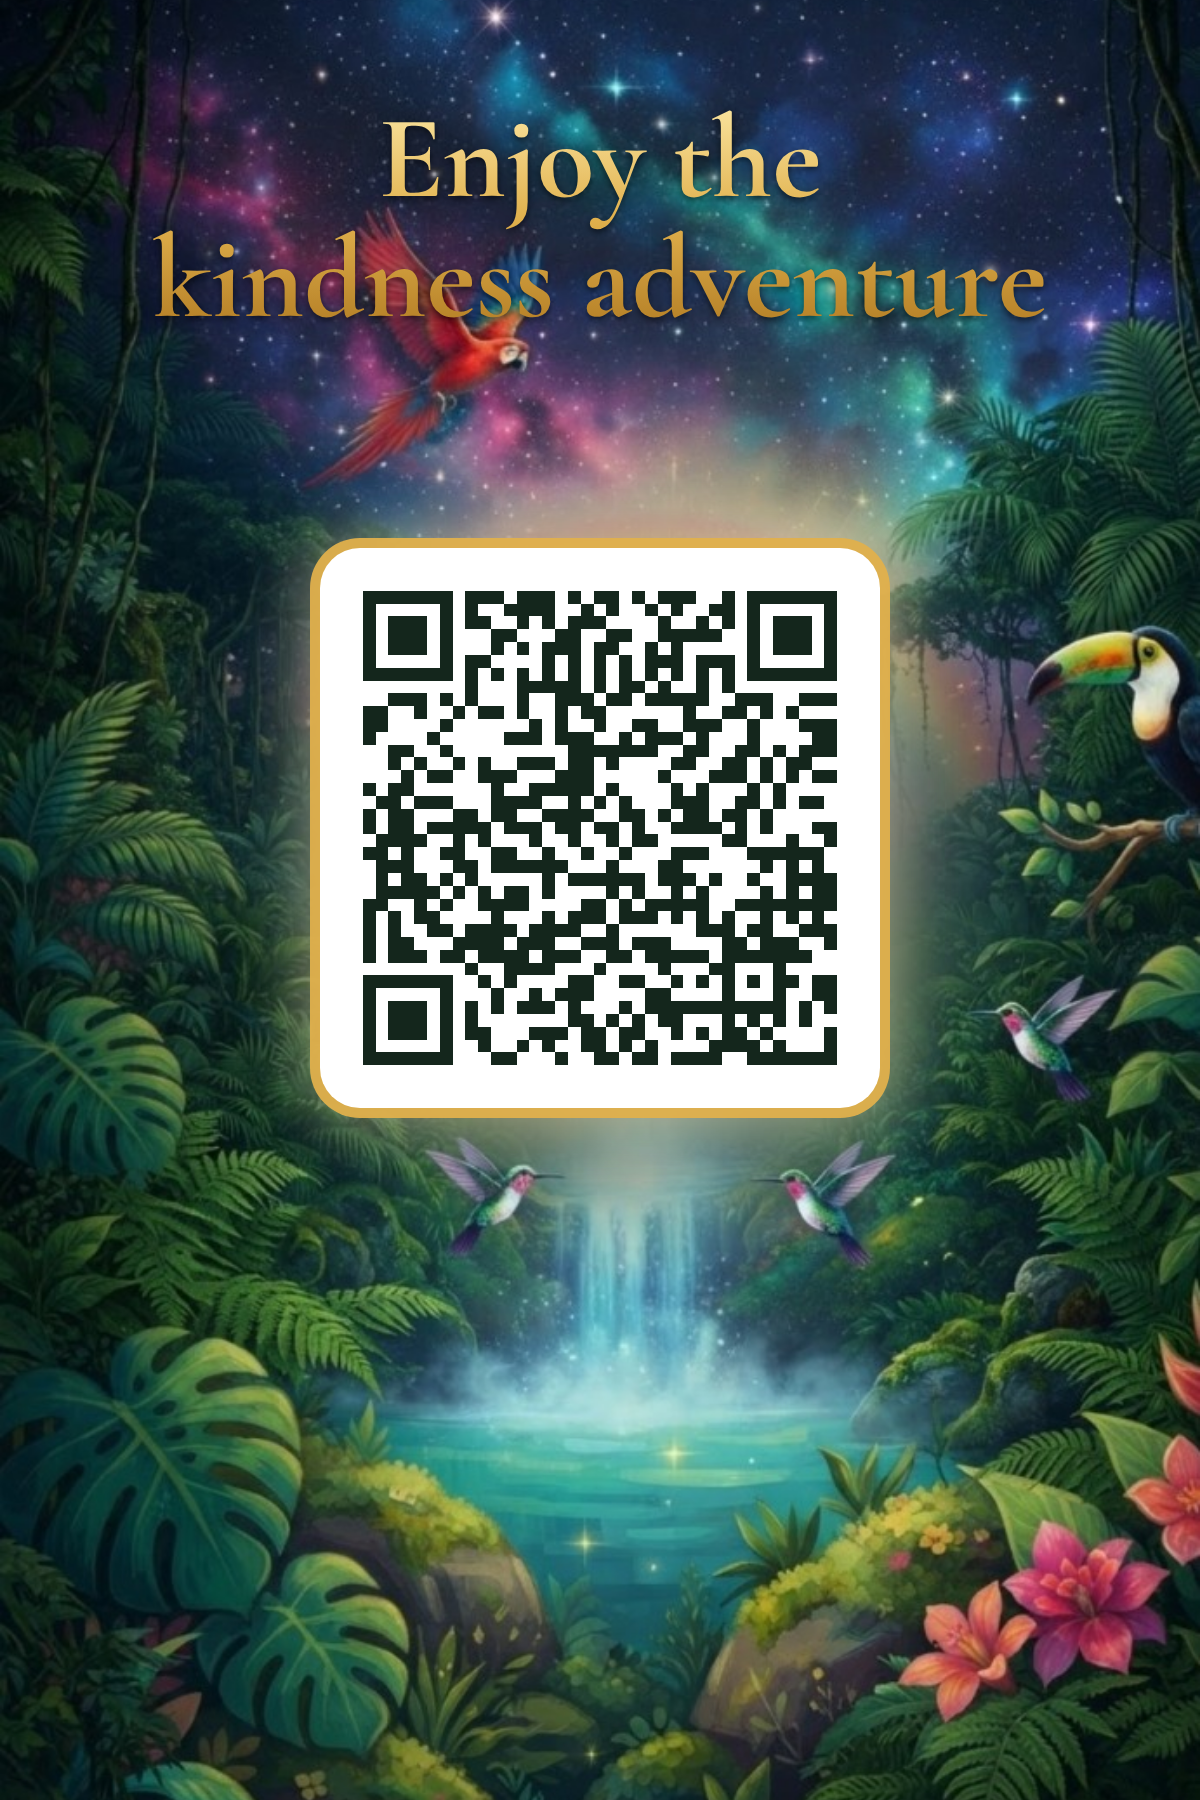
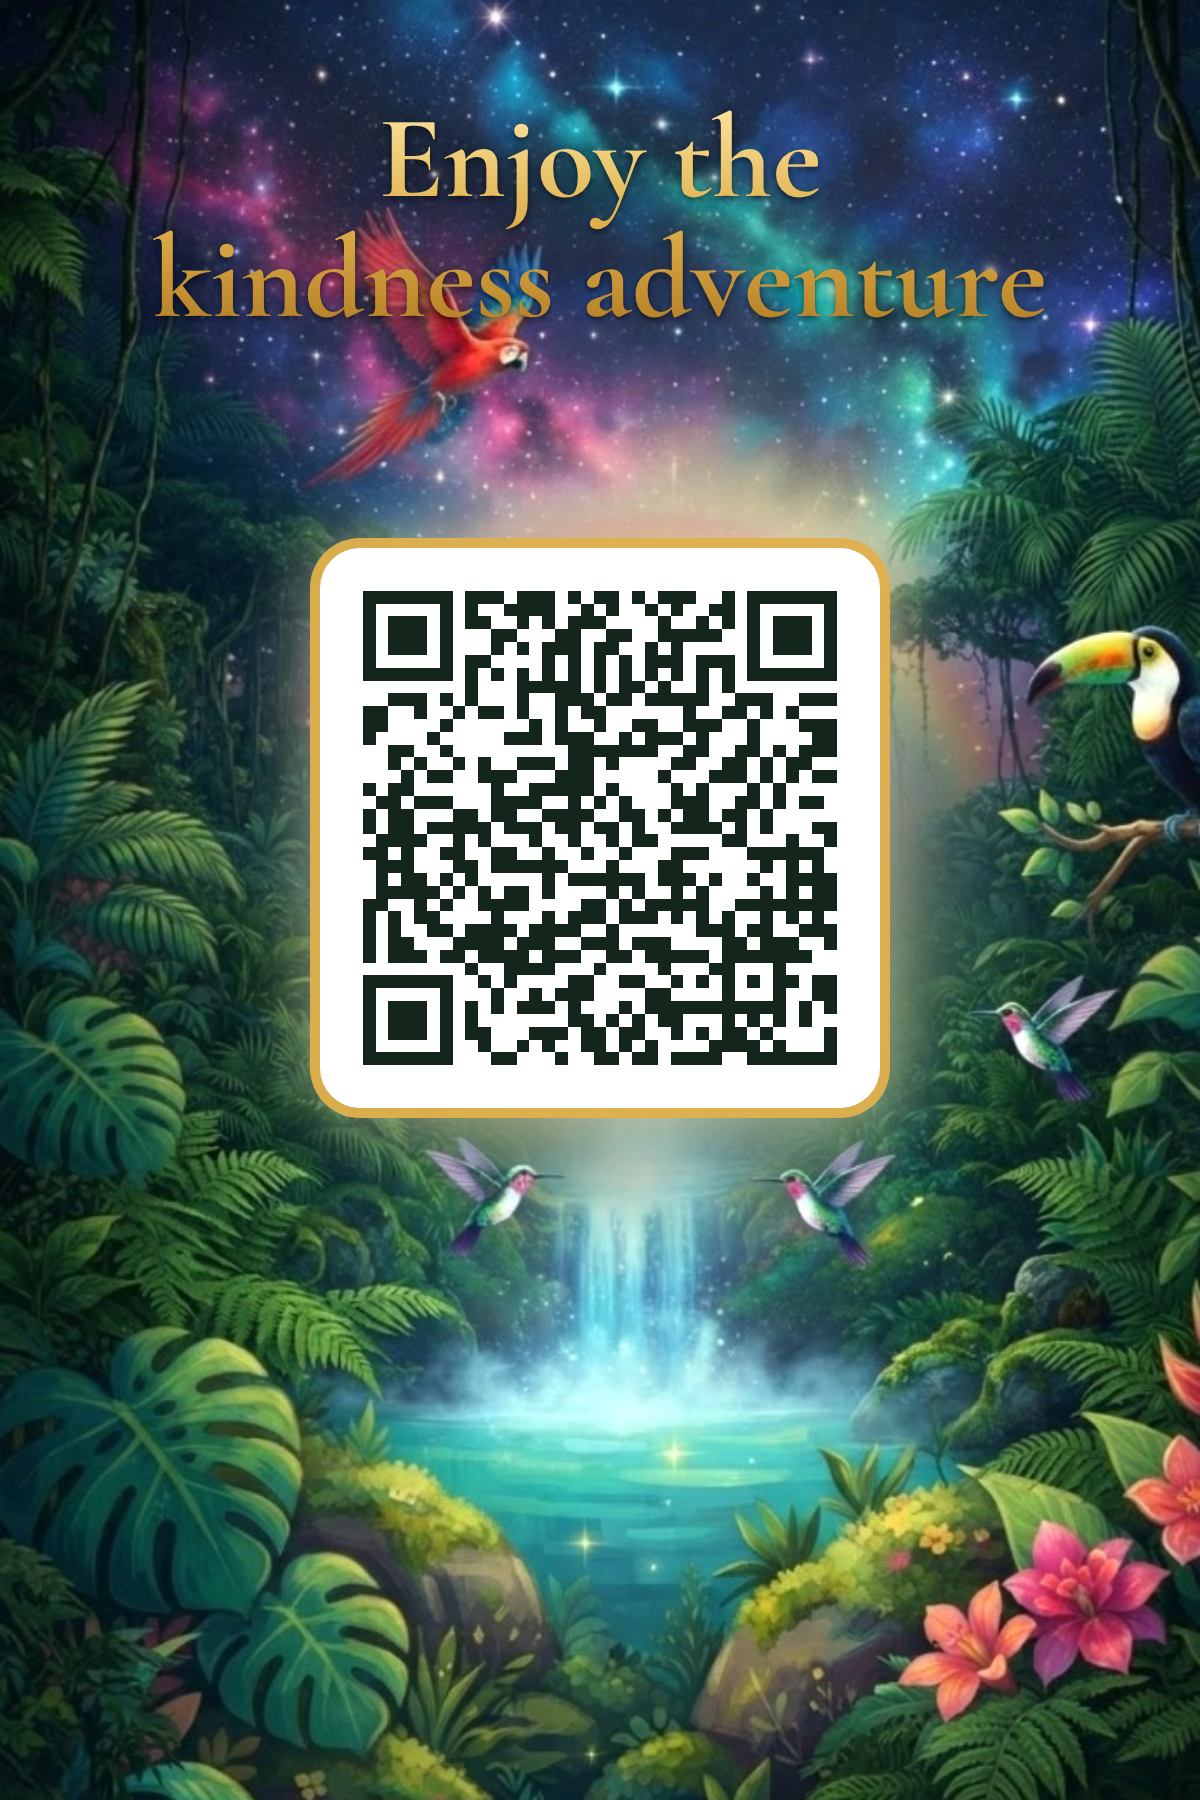
One look: card's night jungle and gold on every page; only the questions; brighter card
Claude-Session: https://claude.ai/code/session_01MLWbqWu26Pfe5ERyxwgiqc

diff --git a/js/app.js b/js/app.js
@@ -14,23 +14,20 @@ const markShared = f => localStorage.setItem(SHARED, JSON.stringify({ ...shared(
 const siteUrl = () => CONFIG.SITE_URL || location.href.split('#')[0];
 const CONSENT = 'I understand my answers will be public (without my name) and may appear in the book <em>Kindness</em> by Dane E. Rose.';
 
-if (isDemo()) $('#demo-banner').hidden = false;
-async function refreshTally() { try { $('#tally').textContent = await backend.tally(); } catch {} }
+async function refreshTally() {}
 
-function view(html, title) { main.innerHTML = html; document.title = (title ? title + ' · ' : '') + 'The Kindness Project'; main.focus(); window.scrollTo(0, 0); }
+function view(html, title) { main.innerHTML = html; document.title = 'Kindness'; main.focus(); window.scrollTo(0, 0); }
 
 // ---------- answer widget (type, speak, or speak-to-text) ----------
 function answerBox(id, label) {
   const rec = canRecord();
-  return `<label for="${id}">${label}</label>
-  <textarea id="${id}" name="${id}" maxlength="4000" placeholder="Type here, or tap Speak and talk."></textarea>
-  ${rec ? `<div class="voice"><button type="button" class="btn alt rec" data-rec="${id}" aria-pressed="false">🎙 Speak instead of typing</button>
-  <span class="hint" data-status="${id}" aria-live="polite">${canTranscribe() ? 'Your words will appear as text as you speak.' : 'Your voice will be recorded. You can also type.'}</span></div>
+  return `<textarea id="${id}" name="${id}" maxlength="4000" aria-label="${label}" placeholder="Type here, or tap Speak."></textarea>
+  ${rec ? `<div class="voice"><button type="button" class="btn alt rec" data-rec="${id}" aria-pressed="false">🎙 Speak</button>
+  <span class="hint" data-status="${id}" aria-live="polite"></span></div>
   <div data-audio="${id}" hidden><audio controls></audio>
-  <fieldset class="vchoice"><legend>How should we share it?</legend>
-  <label><input type="radio" name="keep-${id}" value="voice" data-keep="${id}" checked> As a voice message (with the words written out too)</label>
-  <label><input type="radio" name="keep-${id}" value="text"> As text only (your voice is not kept)</label></fieldset></div>`
-  : `<p class="hint">Voice recording isn't available in this browser, so please type.</p>`}`;
+  <fieldset class="vchoice"><legend>Keep it as</legend>
+  <label><input type="radio" name="keep-${id}" value="voice" data-keep="${id}" checked> A voice message</label>
+  <label><input type="radio" name="keep-${id}" value="text"> Text</label></fieldset></div>` : ''}`;
 }
 const answers = {};
 function wireAnswer(id) {
@@ -92,14 +89,7 @@ function showNote(host, x, y) {
   host.appendChild(n); setTimeout(() => n.remove(), 3300);
 }
 function home() {
-  view(`<section class="jungle" id="jungle"><div class="scene" id="scene"></div>
-  <div class="copy"><h1>Someone made your day.<br>Pass it on.</h1>
-  <p>Three small questions about kindness. Anonymous, two minutes, and good for you.</p>
-  <a class="journey-btn" href="#journey">Take the kindness journey</a>
-  <p class="hint-tap">Psst. Tap a bird.</p></div></section>
-  <div class="leaf-links"><a href="#stories">${STORIES.length} true stories</a><a href="#research">Kindness experiments</a><a href="#feed">What others shared</a></div>`);
-  const j = $('#jungle'); sparkleScene($('#scene'));
-  j.addEventListener('click', e => { if (!e.target.closest('a,button')) showNote(j, e.clientX, e.clientY); });
+  view(`<section class="home"><a class="journey-btn" href="#journey">Take the kindness journey</a></section>`);
 }
 
 const LEAF = `<svg class="leafy" viewBox="0 0 64 64" aria-hidden="true"><path d="M10 54C10 26 30 10 56 8c-2 26-18 46-46 46z" fill="#2f9e5f"/><path d="M12 52C24 40 36 28 50 14" stroke="#e8f3e2" stroke-width="2.5" fill="none" stroke-linecap="round"/><circle cx="50" cy="48" r="5" fill="#ff6f61"/><circle cx="40" cy="56" r="3.5" fill="#ffc94a"/></svg>`;
@@ -111,83 +101,53 @@ const IDEAS = [
   { title: 'Send an appreciation', sub: 'A text or email to someone you really appreciate', href: '#appreciate',
     art: '<img src="img/tile-thanks.jpg" alt="Birds carrying thank-you notes from a phone" loading="lazy">' },
 ];
-const journeyStash = {};
 function journey(step = 1) {
-  if (step === 1) {
-    view(`<div class="journey"><p class="step">The kindness journey · 1 of 3</p>${LEAF}<h1 class="q">What is the kindest thing anyone has done for you?</h1>
-    <form id="f" novalidate>${answerBox('j1', 'Your answer')}
-    <label class="consent"><input type="checkbox" id="consent"> <span>${CONSENT}</span></label>
-    <p class="hint">Please leave out names, phone numbers and emails.</p><p class="err" id="msg" role="alert"></p>
-    <div class="row"><button class="btn" type="submit" id="submit">Submit</button></div></form></div>`, 'The kindness journey');
-    wireAnswer('j1');
+  if (step < 3) {
+    const id = 'j' + step, flow = step === 1 ? 'received' : 'given';
+    const q = step === 1 ? 'What is the kindest thing anyone has done for you?' : 'What is one thing you have done for yourself or others just to be kind?';
+    view(`<div class="journey"><h1 class="q">${q}</h1>
+    <form id="f" novalidate>${answerBox(id, q)}<p class="err" id="msg" role="alert"></p>
+    <div class="row"><button class="btn" type="submit" id="submit">Submit</button></div></form></div>`);
+    wireAnswer(id);
     $('#f').onsubmit = async e => {
       e.preventDefault();
-      if (!$('#j1').value.trim() && !answers.j1?.blob) { $('#msg').textContent = 'Please type or record an answer first.'; return; }
-      if (!$('#consent').checked) { $('#msg').textContent = 'Please tick the box to agree before sharing.'; return; }
+      if (!$('#' + id).value.trim() && !answers[id]?.blob) { $('#msg').textContent = 'Please type or speak an answer first.'; return; }
       $('#submit').disabled = true;
-      try { const it = await collect('j1', 'received', true); await backend.submit([it]); journeyStash.consent = true; markShared('flow1'); refreshTally(); location.hash = '#journey2'; }
+      try { const it = await collect(id, flow, true); await backend.submit([it]); markShared('flow1'); location.hash = step === 1 ? '#journey2' : '#journey3'; }
       catch { $('#submit').disabled = false; $('#msg').textContent = 'Sorry, that didn\'t send. Please try again.'; }
     };
     return;
   }
-  if (step === 2) {
-    view(`<div class="journey"><p class="step">The kindness journey · 2 of 3</p>${LEAF}<h1 class="q">What is one thing you have done for yourself or others just to be kind?</h1>
-    <form id="f" novalidate>${answerBox('j2', 'Your answer')}
-    ${journeyStash.consent ? '' : `<label class="consent"><input type="checkbox" id="consent"> <span>${CONSENT}</span></label>`}
-    <p class="err" id="msg" role="alert"></p>
-    <div class="row"><button class="btn" type="submit" id="submit">Submit</button></div></form></div>`, 'The kindness journey');
-    wireAnswer('j2');
-    $('#f').onsubmit = async e => {
-      e.preventDefault();
-      if (!$('#j2').value.trim() && !answers.j2?.blob) { $('#msg').textContent = 'Please type or record an answer first.'; return; }
-      if (!journeyStash.consent && !$('#consent')?.checked) { $('#msg').textContent = 'Please tick the box to agree before sharing.'; return; }
-      $('#submit').disabled = true;
-      try { const it = await collect('j2', 'given', true); await backend.submit([it]); markShared('flow1'); refreshTally(); location.hash = '#journey3'; }
-      catch { $('#submit').disabled = false; $('#msg').textContent = 'Sorry, that didn\'t send. Please try again.'; }
-    };
-    return;
-  }
-  view(`<div class="journey thanks"><p class="step">The kindness journey · 3 of 3</p>
-  <h1>Thank you so much for participating in the Kindness Project.</h1>
+  view(`<div class="journey"><h1>Thank you so much for participating in the Kindness Project.</h1>
   <h2 class="q">Is there anything big or small that has the energy of kindness around it that you could do right now?</h2>
   <p class="lead">Do you need ideas?</p>
-  <div class="ideas">${IDEAS.map(i => `<a class="idea" href="${i.href}" ${i.href.startsWith('http') ? 'target="_blank" rel="noopener"' : ''}>${i.art}<span>${i.title}<small>${i.sub}</small></span></a>`).join('')}</div>
-  <form id="f" novalidate>${answerBox('j3', 'What you could do right now')}
-  ${journeyStash.consent ? '' : `<label class="consent"><input type="checkbox" id="consent"> <span>${CONSENT}</span></label>`}
-  <p class="err" id="msg" role="alert"></p>
-  <div class="row"><button class="btn" type="submit" id="submit">Submit</button></div></form></div>`, 'The kindness journey');
+  <div class="ideas">${IDEAS.map(i => `<a class="idea" href="${i.href}" ${i.href.startsWith('http') ? 'target="_blank" rel="noopener"' : ''}>${i.art}<span>${i.title}</span></a>`).join('')}</div>
+  <form id="f" novalidate>${answerBox('j3', 'What you could do right now')}<p class="err" id="msg" role="alert"></p>
+  <div class="row"><button class="btn" type="submit" id="submit">Submit</button></div></form></div>`);
   wireAnswer('j3');
   $('#f').onsubmit = async e => {
     e.preventDefault();
     const has = $('#j3').value.trim() || answers.j3?.blob;
-    if (has && !journeyStash.consent && !$('#consent')?.checked) { $('#msg').textContent = 'Please tick the box to agree before sharing.'; return; }
     $('#submit').disabled = true;
-    try { if (has) { const it = await collect('j3', 'inspired', true); await backend.submit([it]); markShared('flow1'); refreshTally(); } location.hash = '#gift'; }
+    try { if (has) { const it = await collect('j3', 'inspired', true); await backend.submit([it]); } location.hash = '#gift'; }
     catch { $('#submit').disabled = false; $('#msg').textContent = 'Sorry, that didn\'t send. Please try again.'; }
   };
 }
 
 function gift() {
-  view(`<div class="journey thanks"><section class="gift">
-  <h2>A book on kindness</h2>
-  <p class="gift-lead">Please receive. Please enjoy.</p>
-  <img class="book3d" src="img/book-3d.jpg" alt="The book Kindness by Dane E. Rose">
+  view(`<div class="journey gift"><h1>A book on kindness</h1>
+  <img class="book3d" src="img/book-3d.png" alt="The book Kindness by Dane E. Rose">
   <p>This book and audiobook are not available for sale anywhere. They are a gift.</p>
-  <p>In it you can enjoy beautiful stories of kindness from around the world and some of the best science on kindness.</p>
   <p>If you would like to receive the book, please enter your email address below. Your email address will be used only for the Kindness Project and never shared with anyone else. Your book and audiobook will arrive within 30 days.</p>
-  <form id="bf" novalidate><label for="bem">Your email address</label><input type="email" id="bem" autocomplete="email" inputmode="email" placeholder="you@example.com">
+  <form id="bf" novalidate><input type="email" id="bem" autocomplete="email" inputmode="email" aria-label="Your email address" placeholder="Your email address">
   <p class="err" id="bmsg" role="alert"></p>
-  <div class="row"><button class="btn" type="submit" id="bsub">Send me the book</button></div></form>
-  <div class="stack"><a class="btn alt" href="#stories">Read the stories online</a><a class="btn alt" href="#share">Share the project with others</a></div>
-  <p class="blessing">Every kind act blesses our entire planet and all of humanity.</p>
-  </section></div>`, 'A book on kindness');
-  setTimeout(confetti, 60);
+  <div class="row"><button class="btn" type="submit" id="bsub">Submit</button></div></form></div>`);
   $('#bf').onsubmit = async e => {
     e.preventDefault();
     const em = $('#bem').value.trim();
     if (!/^[^\s@]+@[^\s@]+\.[^\s@]+$/.test(em)) { $('#bmsg').textContent = 'Please enter a valid email address.'; return; }
     $('#bsub').disabled = true;
-    try { await backend.requestBook(em); $('#bf').outerHTML = '<p class="gift-lead">Thank you. Your book and audiobook will arrive within 30 days.</p>'; }
+    try { await backend.requestBook(em); $('#bf').outerHTML = '<p class="done">Thank you. Your book and audiobook will arrive within 30 days.</p>'; }
     catch { $('#bsub').disabled = false; $('#bmsg').textContent = 'Sorry, that didn\'t send. Please try again.'; }
   };
 }
@@ -387,4 +347,4 @@ async function route() {
   ({ '': home, journey: () => journey(1), journey2: () => journey(2), journey3: () => journey(3), gift, appreciate, stories: () => stories(), research, flow1: () => flow1(1), flow2, thanks1: () => thanks(1), thanks2: () => thanks(2), share, feed: feedPage, book: () => book(arg), admin }[p] || home)();
 }
 window.addEventListener('hashchange', route);
-route(); refreshTally();
+route();

diff --git a/css/style.css b/css/style.css
@@ -140,3 +140,35 @@ a{color:var(--dusk)}@media (prefers-color-scheme:dark){a{color:var(--sun)}}
 .vchoice legend{font-weight:700;padding:0 4px}
 .vchoice label{display:flex;gap:8px;align-items:flex-start;font-weight:400;margin:.4em 0}
 .vchoice input{width:22px;height:22px;flex:none}
+
+/* ---- one look: the card's night jungle, gold serif ---- */
+html{background:#0d2418}
+body{background:#0d2418 url(../img/bg.jpg) center top/cover fixed no-repeat;color:#f6efd9;min-height:100vh}
+body::before{content:"";position:fixed;inset:0;background:linear-gradient(180deg,rgba(6,20,14,.15),rgba(6,20,14,.45));pointer-events:none;z-index:0}
+main{position:relative;z-index:1;max-width:560px;margin:0 auto;padding:28px 18px 48px;outline:none}
+main h1,main h2,.journey .q{font-family:'Cormorant Garamond',Georgia,serif;font-weight:700;color:#f3d27a;text-shadow:0 2px 6px rgba(0,0,0,.6);text-align:center;line-height:1.15}
+main h1{font-size:2.1rem}.journey .q{font-size:1.9rem;margin:.4em 0 .8em}
+main p,main label,main legend{color:#f6efd9;text-shadow:0 1px 3px rgba(0,0,0,.55)}
+.lead{text-align:center;font-size:1.15rem}
+textarea,input[type=email]{background:rgba(8,26,18,.72);color:#fff;border:2px solid rgba(224,176,76,.85);border-radius:14px}
+textarea::placeholder,input::placeholder{color:#cfc6ad}
+.btn{background:linear-gradient(180deg,#fbe6a2,#e0b04c 55%,#b07a22);border:0;color:#14261c;font-weight:700;box-shadow:0 4px 14px rgba(0,0,0,.4)}
+.btn.alt{background:rgba(8,26,18,.6);color:#f3d27a;border:2px solid #e0b04c}
+.row{justify-content:center}
+.voice{display:flex;flex-direction:column;align-items:center;gap:6px;margin-top:12px}
+.vchoice{border:1px solid rgba(224,176,76,.6);border-radius:12px;background:rgba(8,26,18,.6);margin-top:10px}
+.err{color:#ffd0c4;text-align:center}
+.home{min-height:calc(100vh - 80px);display:flex;align-items:flex-end;justify-content:center;padding-bottom:12vh}
+.journey-btn{display:inline-block;padding:18px 34px;border-radius:999px;background:linear-gradient(180deg,#fbe6a2,#e0b04c 55%,#b07a22);color:#14261c;font:700 1.5rem 'Cormorant Garamond',Georgia,serif;text-decoration:none;box-shadow:0 0 0 3px rgba(255,236,180,.35),0 8px 30px rgba(0,0,0,.5)}
+.ideas{display:grid;grid-template-columns:repeat(3,1fr);gap:10px;margin:8px 0 22px}
+.idea{border-radius:14px;overflow:hidden;border:2px solid rgba(224,176,76,.8);background:rgba(8,26,18,.7);text-decoration:none;color:#f3d27a}
+.idea img{width:100%;aspect-ratio:1;object-fit:cover;display:block}
+.idea span{display:block;padding:6px 4px;font:600 .95rem 'Cormorant Garamond',Georgia,serif;text-align:center;color:#f3d27a}
+.gift p{text-align:left;font-size:1.05rem;line-height:1.55}
+.gift .book3d{display:block;width:min(260px,78%);margin:10px auto 18px;filter:drop-shadow(0 16px 24px rgba(0,0,0,.6))}
+.done{text-align:center !important;font:700 1.4rem 'Cormorant Garamond',Georgia,serif;color:#f3d27a !important}
+main .lead{color:#f6efd9;font-weight:600}
+main .gift{background:none;border:0;box-shadow:none;padding:0;margin:0}
+main .gift p{color:#f6efd9}
+.home{align-items:center;padding-bottom:0;min-height:calc(100vh - 60px)}
+.journey-btn{text-align:center;white-space:nowrap;font-size:1.45rem}

diff --git a/index.html b/index.html
@@ -4,30 +4,22 @@
 <meta charset="utf-8">
 <meta name="viewport" content="width=device-width, initial-scale=1, viewport-fit=cover">
 <meta name="referrer" content="no-referrer">
-<title>The Kindness Project</title>
+<title>Kindness</title>
 <meta name="description" content="True stories of kindness, the research on what makes us happier, and a place to share your own. Anonymous and free.">
 <meta property="og:title" content="The Kindness Project">
 <meta property="og:description" content="True stories of kindness, the research on what makes us happier, and a place to share your own.">
 <meta property="og:image" content="https://dane-alt.github.io/kindness-project/img/og.png">
 <meta property="og:url" content="https://dane-alt.github.io/kindness-project/">
 <meta name="twitter:card" content="summary_large_image">
-<meta name="theme-color" content="#1f7a4d">
+<meta name="theme-color" content="#0d2418">
 <link rel="icon" type="image/svg+xml" href="img/logo.svg">
 <link rel="apple-touch-icon" href="img/icon-180.png">
 <link rel="preconnect" href="https://fonts.googleapis.com"><link rel="preconnect" href="https://fonts.gstatic.com" crossorigin>
-<link rel="stylesheet" href="https://fonts.googleapis.com/css2?family=Caveat:wght@600&family=Fredoka:wght@500;600&family=Nunito:wght@400;600;700&display=swap">
+<link rel="stylesheet" href="https://fonts.googleapis.com/css2?family=Cormorant+Garamond:wght@500;600;700&family=Nunito:wght@400;600;700&display=swap">
 <link rel="stylesheet" href="css/style.css">
 </head>
 <body>
-<a class="skip" href="#main">Skip to content</a>
-<div id="demo-banner" class="demo" hidden role="note">Preview mode: stories you share are kept on this phone only for now.</div>
-<header class="top">
-  <a href="#" class="brand"><img src="img/logo.svg" alt="" width="34" height="34"><span>The Kindness Project</span></a>
-  <nav class="nav" aria-label="Main"><a href="#stories">Stories</a><a href="#research">Research</a><a href="#journey" class="nav-cta">Journey</a></nav>
-</header>
-<p class="tallybar" aria-live="polite"><span id="tally">0</span> kindnesses shared so far</p>
 <main id="main" tabindex="-1"></main>
-<footer class="foot">Anonymous. No accounts. We keep only what you choose to share.<br>From the book <em>Kindness</em> by Dane E. Rose · <a href="#book">Found a copy of the book?</a> · <a href="#share">Pass it on</a></footer>
 <script type="module" src="js/app.js"></script>
 </body>
 </html>
